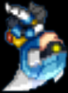
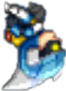
Added different types of meteoroids, added randomly and new visuals.

diff --git a/GravitySuit/GameView.m b/GravitySuit/GameView.m
@@ -38,7 +38,7 @@ CABasicAnimation *backgroundLayerAnimation;
         suit = [[Suit alloc] initWithFrame:CGRectMake(bounds.size.width/4, bounds.size.height/2, 40 , 40)];
         [suit setImage:[UIImage imageNamed:@"suit.png"]];
         [self addSubview:suit];
-        [suit setDy:2];
+        [suit setDy:2.4];
     }
     meteoroids = [[NSMutableArray alloc] init];
     return self;
@@ -68,7 +68,7 @@ CABasicAnimation *backgroundLayerAnimation;
     backgroundLayerAnimation.repeatCount = HUGE_VALF;
     backgroundLayerAnimation.duration = 5;
     [backgroundLayer addAnimation:backgroundLayerAnimation forKey:@"position"];
-    backgroundLayer.zPosition = -2;
+    backgroundLayer.zPosition = -5;
 }
 
 -(void)pauseLayer:(CALayer*)layer
@@ -99,21 +99,38 @@ CABasicAnimation *backgroundLayerAnimation;
 
 -(void)addMeteroid{
         CGRect bounds = [self bounds];
-    
-        Meteoroid *b = [[Meteoroid alloc] initWithFrame:CGRectMake(0, 0, (int)(bounds.size.width * .16),(int)(bounds.size.height * .24))];
-        [b setImage:[UIImage imageNamed:@"meteoroid.png"]];
-        [self addSubview:b];
-        b.layer.zPosition = -1;
-        [b setCenter:CGPointMake((int)((bounds.size.width) + b.frame.size.width/2), rand() % (int)(bounds.size.height - b.frame.size.height) + b.frame.size.height/2)];
-        [meteoroids addObject:b];
+        u_int32_t random = arc4random_uniform(3);
+        Meteoroid *meto;
+        if(random == 0){
+            meto = [[Meteoroid alloc] initWithFrame:CGRectMake(0, 0, (int)(bounds.size.width * .08),(int)(bounds.size.height * .12))];
+            [meto setDx:4];
+            meto.layer.zPosition = -1;
+            [meto setImage:[UIImage imageNamed:@"meteoroid.png"]];
+        }
+        else if(random == 1){
+            meto = [[Meteoroid alloc] initWithFrame:CGRectMake(0, 0, (int)(bounds.size.width * .12),(int)(bounds.size.height * .18))];
+            [meto setDx:3];
+            meto.layer.zPosition = -2;
+            [meto setImage:[UIImage imageNamed:@"meteoroid2.png"]];
+
+        }
+        else if(random == 2){
+            meto = [[Meteoroid alloc] initWithFrame:CGRectMake(0, 0, (int)(bounds.size.width * .24),(int)(bounds.size.height * .24))];
+            [meto setDx:2.4];
+            meto.layer.zPosition = -3;
+            [meto setImage:[UIImage imageNamed:@"meteoroid3.png"]];
+        }
+        [self addSubview:meto];
+        [meto setCenter:CGPointMake((int)((bounds.size.width) + meto.frame.size.width/2), rand() % (int)(bounds.size.height - meto.frame.size.height) + meto.frame.size.height/2)];
+        [meteoroids addObject:meto];
     
 }
 -(void)moveMeteroids{
     for (int i=0; i < [meteoroids count]; i++){
         Meteoroid *meto =[meteoroids objectAtIndex:i];
         CGPoint p = [meto center];
-        p.x -= 2;
-        if(p.x < 10){
+        p.x -= [meto dx];
+        if(p.x < -meto.frame.size.width/2){
             [meteoroids removeObject:meto];
             [meto removeFromSuperview];
             _currentScore += 10;
@@ -138,7 +155,6 @@ CABasicAnimation *backgroundLayerAnimation;
     
     if(p.x + f.size.width/2 > [self bounds].size.width){
         p.x -=  [self bounds].size.width;
-        _currentScore += 100;
     }
     
     if(p.y > [self bounds].size.height - f.size.height/2){
@@ -165,7 +181,7 @@ CABasicAnimation *backgroundLayerAnimation;
     
     [suit setCenter:p];
     [self updateScore];
-    if(_counter % 120 == 0){
+    if(_counter % 90 == 0){
         [self addMeteroid];
     }
     _counter++;

diff --git a/GravitySuit/ViewController.m b/GravitySuit/ViewController.m
@@ -37,11 +37,11 @@
 
 - (IBAction)tapped:(id)sender {    
     if(_gameView.suit.dy > 0){
-        [_gameView.suit setDy:-2];
+        [_gameView.suit setDy:-2.4];
         [_gameView.suit setImage:[UIImage imageNamed:@"upSuit.png"]];
     }
     else{
-        [_gameView.suit setDy:2];
+        [_gameView.suit setDy:2.4];
         [_gameView.suit setImage:[UIImage imageNamed:@"suit.png"]];
     }
 }

diff --git a/GravitySuit/Meteoroid.m b/GravitySuit/Meteoroid.m
@@ -9,7 +9,7 @@
 #import "Meteoroid.h"
 
 @implementation Meteoroid
-@synthesize touched;
+@synthesize touched,dx;
 /*
 // Only override drawRect: if you perform custom drawing.
 // An empty implementation adversely affects performance during animation.

diff --git a/GravitySuit/Meteoroid.h b/GravitySuit/Meteoroid.h
@@ -10,4 +10,5 @@
 
 @interface Meteoroid : UIImageView
 @property (nonatomic) BOOL touched;
+@property (nonatomic) float dx;
 @end
